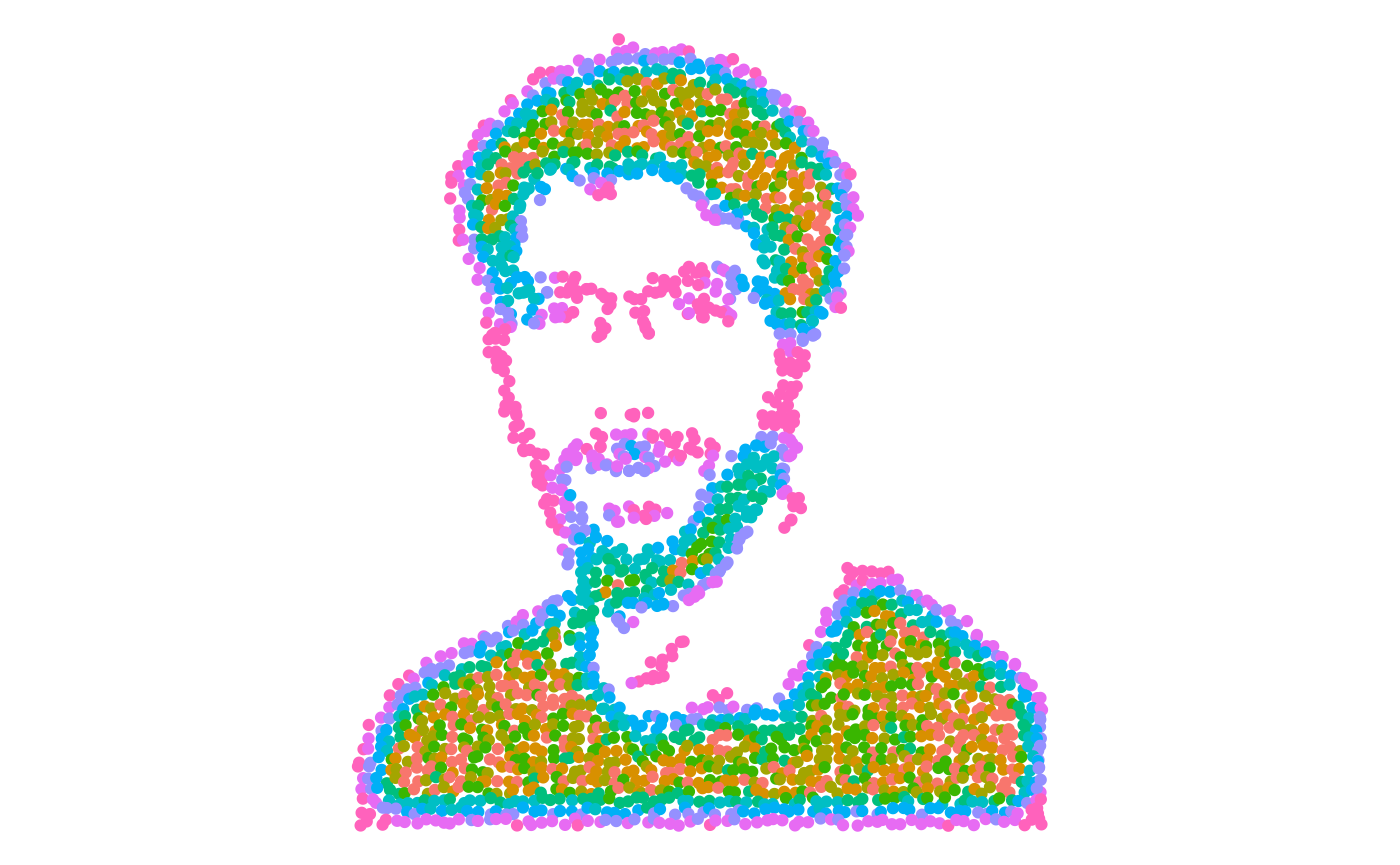
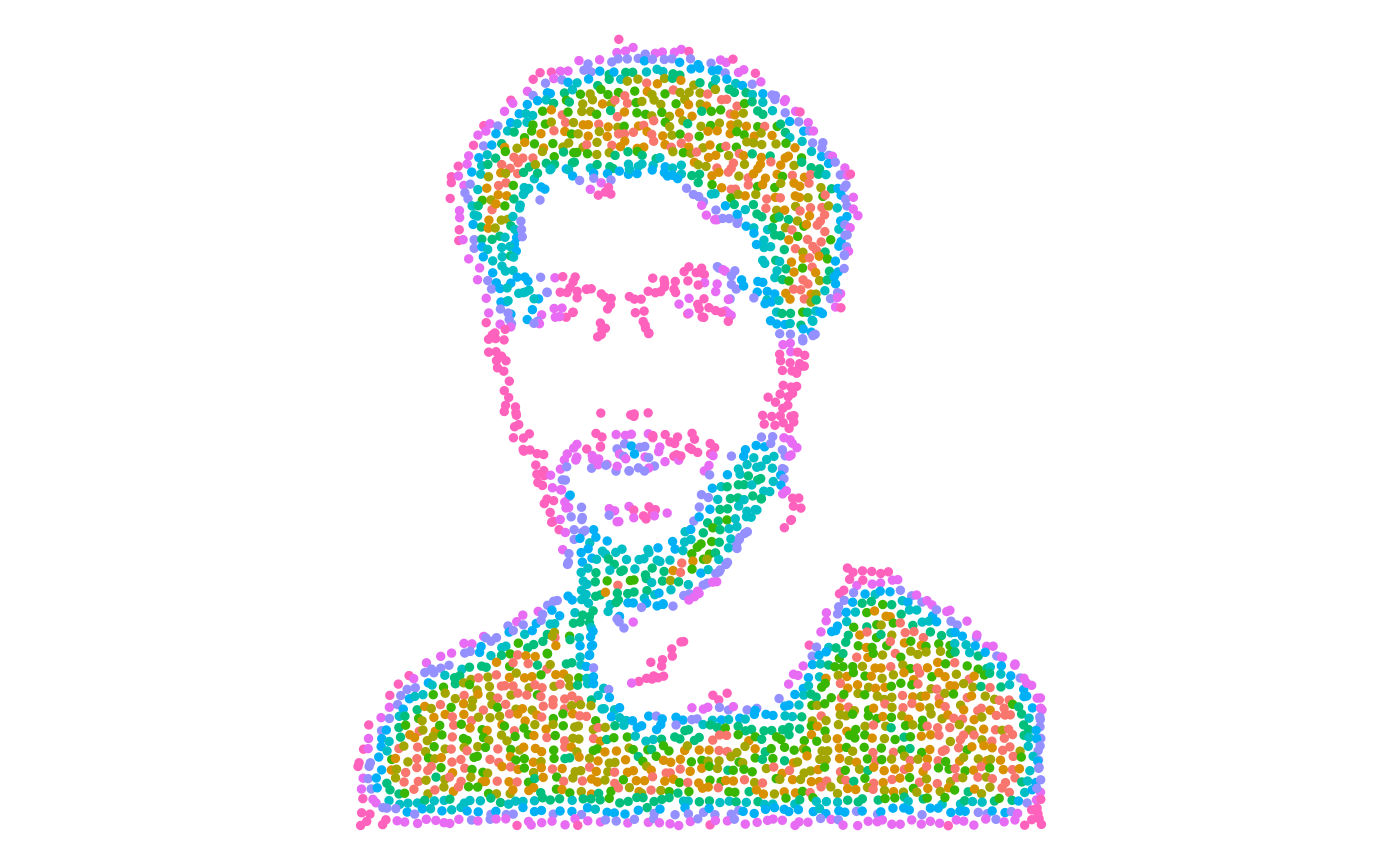
Built site for spatialist@0.1.0: 09125db

Changed region(s): [[0.2457, 0.0312, 0.7679, 0.9676], [0.4607, 0.7491, 0.4914, 0.7803]]

diff --git a/articles/spatialist.html b/articles/spatialist.html
@@ -83,7 +83,7 @@ Oxford, OX3 9DS,
 UK<br><a class="author_email" href="mailto:#"></a><a href="mailto:kevinrue67@gmail.com" class="email">kevinrue67@gmail.com</a>
       </address>
                   
-            <h4 data-toc-skip class="date">20 September 2024</h4>
+            <h4 data-toc-skip class="date">24 September 2024</h4>
       
       <small class="dont-index">Source: <a href="https://github.com/kevinrue/spatialist/blob/main/vignettes/spatialist.Rmd" class="external-link"><code>vignettes/spatialist.Rmd</code></a></small>
       <div class="hidden name"><code>spatialist.Rmd</code></div>
@@ -92,7 +92,7 @@ UK<br><a class="author_email" href="mailto:#"></a><a href="mailto:kevinrue67@gma
 
     
     
-<p><strong>Compiled date</strong>: 2024-09-20</p>
+<p><strong>Compiled date</strong>: 2024-09-24</p>
 <p><strong>Last edited</strong>: 2020-04-20</p>
 <p><strong>License</strong>: MIT + file LICENSE</p>
 <div class="section level2">
@@ -279,14 +279,14 @@ your analysis, please cite it as shown below:</p>
 <span><span class="co">#&gt;   [9] png_0.1-8                   systemfonts_1.1.0          </span></span>
 <span><span class="co">#&gt;  [11] vctrs_0.6.5                 pkgconfig_2.0.3            </span></span>
 <span><span class="co">#&gt;  [13] shape_1.4.6.1               crayon_1.5.3               </span></span>
-<span><span class="co">#&gt;  [15] fastmap_1.2.0               magick_2.8.4               </span></span>
+<span><span class="co">#&gt;  [15] fastmap_1.2.0               magick_2.8.5               </span></span>
 <span><span class="co">#&gt;  [17] XVector_0.45.0              labeling_0.4.3             </span></span>
 <span><span class="co">#&gt;  [19] fontawesome_0.5.2           utf8_1.2.4                 </span></span>
 <span><span class="co">#&gt;  [21] promises_1.3.0              rmarkdown_2.28             </span></span>
 <span><span class="co">#&gt;  [23] shinyAce_0.4.2              UCSC.utils_1.1.0           </span></span>
 <span><span class="co">#&gt;  [25] ragg_1.3.3                  xfun_0.47                  </span></span>
 <span><span class="co">#&gt;  [27] zlibbioc_1.51.1             cachem_1.1.0               </span></span>
-<span><span class="co">#&gt;  [29] GenomeInfoDb_1.41.1         jsonlite_1.8.8             </span></span>
+<span><span class="co">#&gt;  [29] GenomeInfoDb_1.41.1         jsonlite_1.8.9             </span></span>
 <span><span class="co">#&gt;  [31] listviewer_4.0.0            highr_0.11                 </span></span>
 <span><span class="co">#&gt;  [33] later_1.3.2                 DelayedArray_0.31.11       </span></span>
 <span><span class="co">#&gt;  [35] parallel_4.4.1              cluster_2.1.6              </span></span>
@@ -318,11 +318,11 @@ your analysis, please cite it as shown below:</p>
 <span><span class="co">#&gt;  [87] nlme_3.1-166                GenomeInfoDbData_1.2.12    </span></span>
 <span><span class="co">#&gt;  [89] vipor_0.4.7                 cli_3.6.3                  </span></span>
 <span><span class="co">#&gt;  [91] textshaping_0.4.0           fansi_1.0.6                </span></span>
-<span><span class="co">#&gt;  [93] viridisLite_0.4.2           S4Arrays_1.5.7             </span></span>
+<span><span class="co">#&gt;  [93] viridisLite_0.4.2           S4Arrays_1.5.8             </span></span>
 <span><span class="co">#&gt;  [95] ComplexHeatmap_2.21.0       dplyr_1.1.4                </span></span>
 <span><span class="co">#&gt;  [97] gtable_0.3.5                rintrojs_0.3.4             </span></span>
 <span><span class="co">#&gt;  [99] sass_0.4.9                  digest_0.6.37              </span></span>
-<span><span class="co">#&gt; [101] BiocGenerics_0.51.1         SparseArray_1.5.36         </span></span>
+<span><span class="co">#&gt; [101] BiocGenerics_0.51.1         SparseArray_1.5.38         </span></span>
 <span><span class="co">#&gt; [103] ggrepel_0.9.6               farver_2.1.2               </span></span>
 <span><span class="co">#&gt; [105] rjson_0.2.23                htmlwidgets_1.6.4          </span></span>
 <span><span class="co">#&gt; [107] htmltools_0.5.8.1           pkgdown_2.1.1              </span></span>

diff --git a/reference/spatialise.html b/reference/spatialise.html
@@ -62,6 +62,7 @@
 <span>    <span class="st">"spatial"</span>, <span class="st">"visium"</span><span class="op">)</span>,</span>
 <span>  downsample <span class="op">=</span> <span class="fl">150</span>,</span>
 <span>  jitter <span class="op">=</span> <span class="fl">1</span>,</span>
+<span>  point.size <span class="op">=</span> <span class="fl">1</span>,</span>
 <span>  img2matrix.FUN <span class="op">=</span> <span class="va">firstLayerNotWhite</span>,</span>
 <span>  extras <span class="op">=</span> <span class="fu"><a href="https://rdrr.io/r/base/list.html" class="external-link">list</a></span><span class="op">(</span><span class="op">)</span></span>
 <span><span class="op">)</span></span></code></pre></div>
@@ -85,6 +86,10 @@
 
 <dt id="arg-jitter">jitter<a class="anchor" aria-label="anchor" href="#arg-jitter"></a></dt>
 <dd><p>Amount of jitter.</p></dd>
+
+
+<dt id="arg-point-size">point.size<a class="anchor" aria-label="anchor" href="#arg-point-size"></a></dt>
+<dd><p>Point size</p></dd>
 
 
 <dt id="arg-img-matrix-fun">img2matrix.FUN<a class="anchor" aria-label="anchor" href="#arg-img-matrix-fun"></a></dt>

diff --git a/reference/make_spatial.html b/reference/make_spatial.html
@@ -56,7 +56,7 @@
     </div>
 
     <div id="ref-usage">
-    <div class="sourceCode"><pre class="sourceCode r"><code><span><span class="fu">make_spatial</span><span class="op">(</span><span class="va">xy_coord</span>, <span class="va">jitter</span><span class="op">)</span></span></code></pre></div>
+    <div class="sourceCode"><pre class="sourceCode r"><code><span><span class="fu">make_spatial</span><span class="op">(</span><span class="va">xy_coord</span>, <span class="va">point.size</span><span class="op">)</span></span></code></pre></div>
     </div>
 
     <div id="arguments">
@@ -67,8 +67,8 @@
 <dd><p>`data.frame` of XY coordinates.</p></dd>
 
 
-<dt id="arg-jitter">jitter<a class="anchor" aria-label="anchor" href="#arg-jitter"></a></dt>
-<dd><p>Amount of jitter.</p></dd>
+<dt id="arg-point-size">point.size<a class="anchor" aria-label="anchor" href="#arg-point-size"></a></dt>
+<dd><p>Point size</p></dd>
 
 </dl></div>
     <div id="value">
